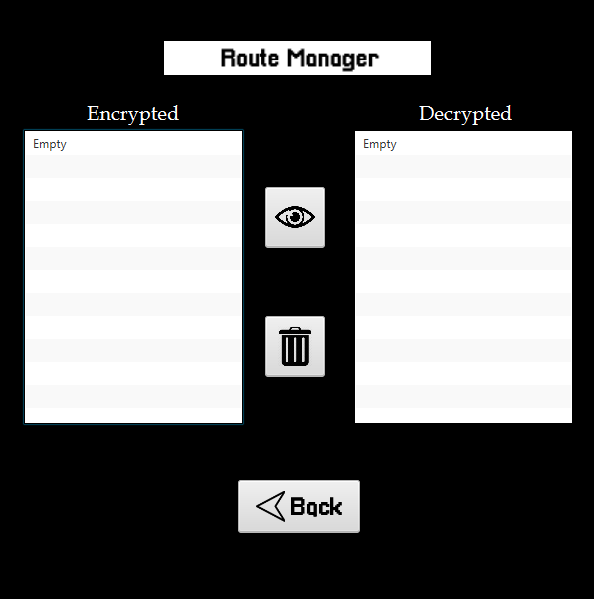
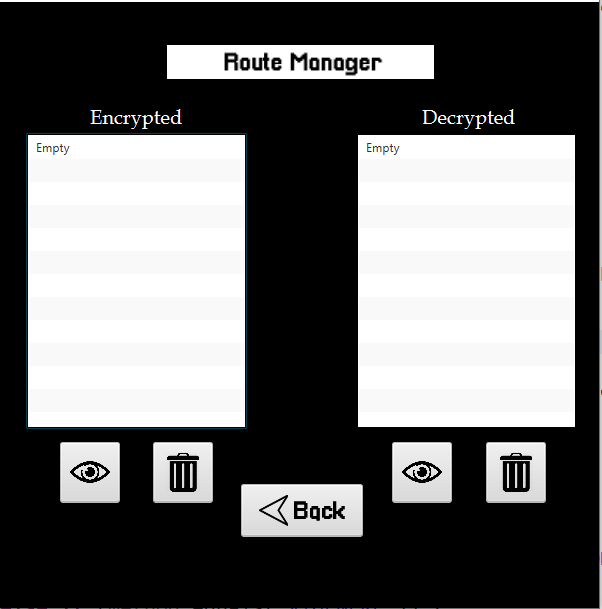
Exception WordKeyInvalid has been implemented in the GUI controller, and Route_Manager image has been fixed

diff --git a/src/ui/CrypterGUI.java b/src/ui/CrypterGUI.java
@@ -5,6 +5,7 @@ import java.io.IOException;
 import java.util.ArrayList;
 
 import exception.EmptyFieldException;
+import exception.WordKeyInvalidException;
 import javafx.collections.FXCollections;
 import javafx.collections.ObservableList;
 import javafx.event.ActionEvent;
@@ -548,7 +549,7 @@ public class CrypterGUI {
 	}
 	
 	@FXML
-	void encryptByConsole(ActionEvent event) throws IOException {
+	void encryptByConsole(ActionEvent event) throws IOException, WordKeyInvalidException {
 		try {
 			if (!textConsole.getText().equals(" ")) {
 				String method = getSelectedMethod();
@@ -570,7 +571,7 @@ public class CrypterGUI {
 		}
 	}
 
-	private void encryptByConsoleCesar() throws IOException{
+	private void encryptByConsoleCesar() throws IOException, WordKeyInvalidException{
 		String direction = ((RadioButton) directionToggleCesar.getSelectedToggle()).getText();
 		try {
 			int numberKey = Integer.parseInt(numberKeyCesar.getText());
@@ -605,31 +606,36 @@ public class CrypterGUI {
 				throw new EmptyFieldException("KEY", "DECRYPT");
 			}else {
 				crypter = new Vigenere(encriptionKey);
-				String returnText = crypter.encrypt(textConsole.getText());
-				
-				writeRoute(returnText, true);
-				
-				EventHandler<DialogEvent> e = new EventHandler<DialogEvent>() {
-					public void handle(DialogEvent e) {
-						try {
-							loadShowFile();
-						} catch (IOException e1) {
-							e1.printStackTrace();
+				String returnText;
+				try {
+					returnText = crypter.encrypt(textConsole.getText());
+					writeRoute(returnText, true);
+					
+					EventHandler<DialogEvent> e = new EventHandler<DialogEvent>() {
+						public void handle(DialogEvent e) {
+							try {
+								loadShowFile();
+							} catch (IOException e1) {
+								e1.printStackTrace();
+							}
+							textFromText.setText(returnText);
 						}
-						textFromText.setText(returnText);
-					}
-				};
-				loadAlert(AlertType.INFORMATION, "SUSSESFUL", "THE PROCESS IS COMPLETE",
-						"then the preview will open", e);
+					};
+					loadAlert(AlertType.INFORMATION, "SUSSESFUL", "THE PROCESS IS COMPLETE",
+							"then the preview will open", e);
+				} catch (WordKeyInvalidException e) {
+					loadAlert(AlertType.WARNING, "ERROR", e.getMessage(), "Try again");
+				}
 			}
 		} catch (EmptyFieldException e) {
 			loadAlert(AlertType.WARNING, "WARNING", e.getMessage(), "try type something");
 		}
 	}
 	
-	private void encryptByConsoleAtbash() throws IOException{
+	private void encryptByConsoleAtbash() throws IOException, WordKeyInvalidException{
 		crypter = new Atbash();
-		String returnText = crypter.encrypt(textConsole.getText());
+		String returnText;
+		returnText = crypter.encrypt(textConsole.getText());
 		
 		writeRoute(returnText, true);
 		
@@ -697,12 +703,7 @@ public class CrypterGUI {
 		}
 	}
 
-<<<<<<< HEAD
 	////////////////////////////////////////////////////////SHOW_STAGE METHODS////////////////////////////////////////////////////////
-	/**
-	 * Search the Font's list and the height's list
-	 */
-=======
 	private void decryptByConsoleVigenere() throws IOException {
 		try {
 			String encriptionKey = wordKeyVigenere_AES.getText();
@@ -753,7 +754,11 @@ public class CrypterGUI {
 	}
 	
 	// SHOW_STAGE METHODS
->>>>>>> fa2dabe6ecab2d73d9d5040ee9f3ea0458c552d9
+	
+	/**
+	 * Search the Font's list and the height's list
+	 */
+	
 	@FXML
 	void cursiveOption(ActionEvent event) {
 

diff --git a/src/model/RouteManager.java b/src/model/RouteManager.java
@@ -10,12 +10,9 @@ import java.util.ArrayList;
 
 public class RouteManager{
 	
-<<<<<<< HEAD
-=======
 	private int actualNumberEncrypt;
 	private int actualNumberDecrypt;
 	
->>>>>>> fa2dabe6ecab2d73d9d5040ee9f3ea0458c552d9
 	private RoutesList routeList;
 	
 	public RouteManager() {
